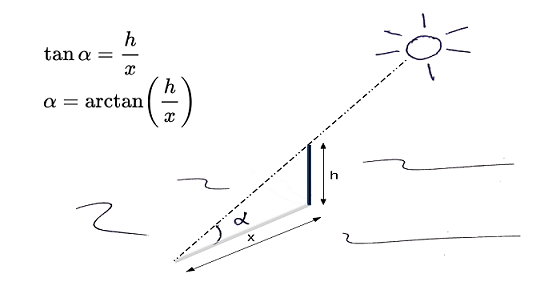
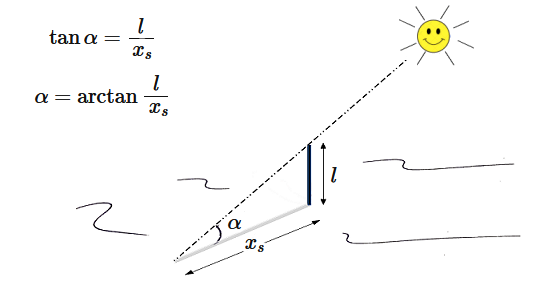
cambio img sombra

diff --git a/_posts/2026-01-10-geo-ubicación.md b/_posts/2026-01-10-geo-ubicación.md
@@ -157,7 +157,7 @@ Desde un punto de tu pueblo o ciudad, en mi caso Valladolid, estimar la latitud 
 <!-- XXXXXXXXXXX -->
 <div align="center">
    <a id="f21"></a>
-	{% include  image.html url="/img/geoloc/sombra4.png" description="Figura 2.1. Esquema para la estimación de la altitud solar" %}
+	{% include  image.html url="/img/geoloc/sombra3.png" description="Figura 2.1. Esquema para la estimación de la altitud solar" %}
 </div>
   
 Para realizar la tarea lo primero será hacer una medición lo más precisa posible de la altitud del sol al mediodía, y para esto es necesario que esté despejado y que sepamos valorar cuando el sol ha alcanzado su meridiano, osea, el sur geográfico, osea, su punto de máxima elevación ese día.  Supongamos que las condiciones son buenas y medimos, por el procedimiento de la sombra o con un sextante (más preciso) un angulo de elevación solar 
@@ -273,11 +273,6 @@ así obtendremos la hora Z (UTC) del mediodía verdadero. Si queremos el resulta
 **Si no conocemos nuestra longitud, $$\lambda$$**,  el momento del  mediodía verdadero puede estimarse de manera más o menos precisa a partir de la variación de la lonfitud de la sombra de un objeto de extensión vertical $$h$$. De acuerdo con la [figura 2.1](#f21) la longitud de la sombra de tal objeto vendrá dada por la expresión
 
 <a id="anex_ec1"></a>
-
-$$
-\tan\alpha=\frac{l}{x_s}\\
-\alpha=\arctan\frac{l}{x_s}\\
-$$
 
 
 <a id="referencias"></a>
